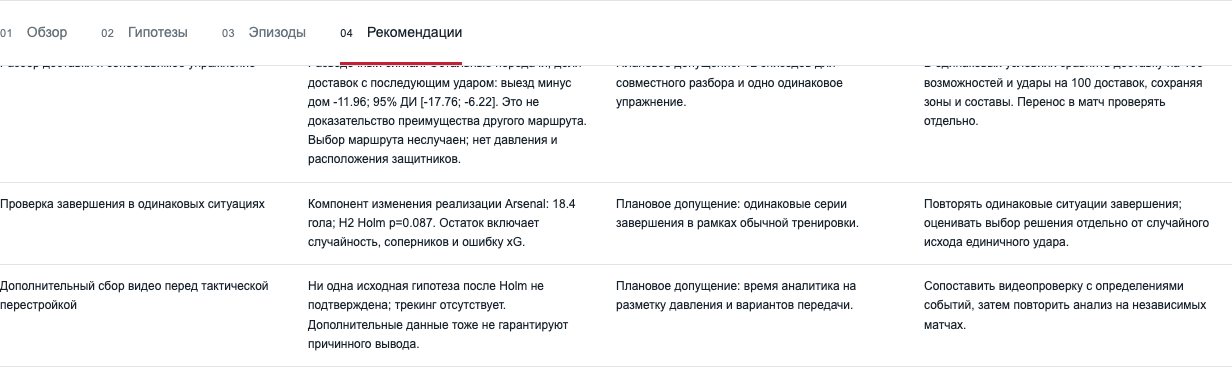
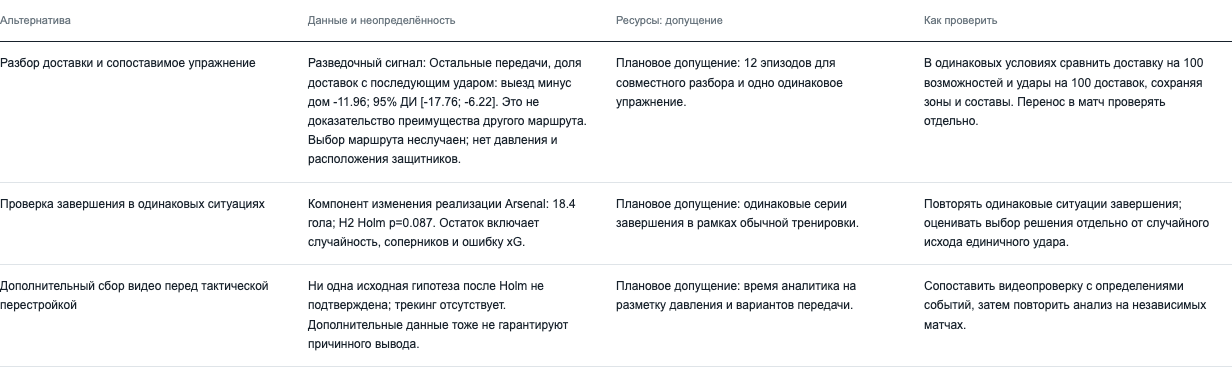
fix: render shot events without placeholder trajectories

diff --git a/app/app.js b/app/app.js
@@ -1,4 +1,4 @@
-import {filterEpisodes,riskSummary,number as fmt,clock} from './lab-utils.js';
+import {filterEpisodes,riskSummary,number as fmt,clock,actionGeometry} from './lab-utils.js';
 const $=id=>document.getElementById(id);
 let data,selectedEpisode=null,filteredEpisodes=[],listLimit=60,timer=null;
 const INK='#17212b',RED='#c52235',GRAY='#98a3ac';
@@ -146,7 +146,7 @@ function selectEpisode(e) {
   if(timer){clearInterval(timer);timer=null;$('play').textContent='Воспроизвести';}
   selectedEpisode=e;
   document.querySelectorAll('.episode-item').forEach(b=>b.classList.toggle('active',filteredEpisodes[Number(b.dataset.index)]===e));
-  if(!e){$('episode-title').textContent='Нет подходящих эпизодов';$('episode-meta').textContent='';$('episode-result').textContent='';$('pitch-container').innerHTML='<p class="empty">Выберите другие условия.</p>';$('action-details').textContent='';$('frame').max=0;$('frame-label').textContent='0 / 0';$('play').disabled=true;return;}
+  if(!e){$('episode-title').textContent='Нет подходящих эпизодов';$('episode-meta').textContent='';$('episode-result').textContent='';$('pitch-container').innerHTML='<p class="empty">Выберите другие условия.</p>';$('action-details').textContent='';$('shot-explanation').textContent='';$('frame').max=0;$('frame-label').textContent='0 / 0';$('play').disabled=true;return;}
   const m=matchFor(e.match_id);
   $('episode-title').textContent=m.label;
   $('episode-meta').textContent=clock(e.period,e.second)+' · match '+e.match_id+' · event '+e.event_id+' · разница счёта до события: '+(e.score_diff>0?'+':'')+e.score_diff;
@@ -160,16 +160,28 @@ function drawFrame() {
   if(!selectedEpisode?.actions.length)return;
   const i=Number($('frame').value),actions=selectedEpisode.actions;
   let s=pitchBase()+'<defs><marker id="arrow" markerWidth="7" markerHeight="7" refX="6" refY="3" orient="auto"><path d="M0,0 L0,6 L7,3 z" fill="context-stroke"/></marker></defs>';
+  s+='<rect class="goal-mouth" x="4" y="214.56" width="8" height="48.88" fill="none" stroke="'+GRAY+'"/><rect class="goal-mouth" x="712" y="214.56" width="8" height="48.88" fill="none" stroke="'+GRAY+'"/>';
   const x=v=>12+v*7,y=v=>12+v*4.54;
   actions.slice(0,i+1).forEach((a,j)=>{
-    const pos=a.positions,color=a.arsenal?RED:INK,opacity=j===i?1:.18;
-    if(pos.length>1)s+='<line x1="'+x(pos[0].x)+'" y1="'+y(pos[0].y)+'" x2="'+x(pos[1].x)+'" y2="'+y(pos[1].y)+'" stroke="'+color+'" stroke-width="'+(j===i?2.6:1.5)+'" opacity="'+opacity+'" marker-end="url(#arrow)"/>';
-    const p=pos[0];s+='<circle cx="'+x(p.x)+'" cy="'+y(p.y)+'" r="'+(j===i?7:4)+'" fill="'+color+'" opacity="'+opacity+'"/>';
+    const geometry=actionGeometry(a),color=a.arsenal?RED:INK,opacity=j===i?1:.18;
+    const p=geometry.origin;if(!p)return;
+    if(geometry.end){
+      const end=geometry.end;
+      s+='<line class="'+(geometry.isGoal?'goal-direction':'pass-direction')+'" data-event="'+a.id+'" x1="'+x(p.x)+'" y1="'+y(p.y)+'" x2="'+x(end.x)+'" y2="'+y(end.y)+'" stroke="'+color+'" stroke-width="'+(j===i?2.6:1.5)+'" opacity="'+opacity+'"'+(geometry.isGoal?' stroke-dasharray="5 4"':'')+' marker-end="url(#arrow)"/>';
+      if(geometry.isGoal&&j===i)s+='<circle class="goal-ball" cx="'+x(end.x)+'" cy="'+y(end.y)+'" r="4" fill="white" stroke="'+color+'" stroke-width="2"><animate attributeName="cx" from="'+x(p.x)+'" to="'+x(end.x)+'" dur="0.6s" fill="freeze"/><animate attributeName="cy" from="'+y(p.y)+'" to="'+y(end.y)+'" dur="0.6s" fill="freeze"/></circle>';
+    }
+    s+='<circle class="action-origin" cx="'+x(p.x)+'" cy="'+y(p.y)+'" r="'+(j===i?7:4)+'" fill="'+color+'" opacity="'+opacity+'"/>';
+    if(geometry.isShot)s+='<circle class="shot-origin" data-event="'+a.id+'" cx="'+x(p.x)+'" cy="'+y(p.y)+'" r="'+(j===i?12:7)+'" fill="none" stroke="'+color+'" stroke-width="2" opacity="'+opacity+'"/>';
     if(j===i)s+='<text x="'+(x(p.x)+(p.x>65?-10:10))+'" y="'+Math.max(25,y(p.y)-12)+'" text-anchor="'+(p.x>65?'end':'start')+'" fill="'+color+'" font-size="12" font-family="Arial">'+escape(a.player||translated[a.type]||a.type)+'</text>';
   });
+  const lastShot=actions.slice(0,i+1).findLast(a=>actionGeometry(a).isShot);
+  if(lastShot?.goal)s+='<text class="goal-caption" x="362" y="39" text-anchor="middle" fill="'+(lastShot.arsenal?RED:INK)+'" font-family="Arial" font-size="17" font-weight="bold">'+(lastShot.arsenal?'ГОЛ ARSENAL':'ГОЛ СОПЕРНИКА')+' · '+escape(lastShot.player||'')+'</text>';
+  else if(lastShot&&actionGeometry(actions[i]).isShot)s+='<text class="shot-caption" x="362" y="39" text-anchor="middle" fill="'+INK+'" font-family="Arial" font-size="15">УДАР БЕЗ ГОЛА</text>';
   $('pitch-container').innerHTML=svg(s,724,500,'Реальные события выбранного эпизода');
   const a=actions[i];$('frame-label').textContent=(i+1)+' / '+actions.length;
-  $('action-details').textContent=clock(selectedEpisode.period,a.second)+' · '+(a.arsenal?'Arsenal':'Соперник')+' · '+(a.player||'игрок не указан')+' · '+(translated[a.type]||a.type)+' · event '+a.id;
+  const geometry=actionGeometry(a);
+  $('action-details').textContent=clock(selectedEpisode.period,a.second)+' · '+(a.arsenal?'Arsenal':'Соперник')+' · '+(a.player||'игрок не указан')+' · '+(geometry.isGoal?'Удар — ГОЛ':geometry.isShot?'Удар без гола':translated[a.type]||a.type)+' · event '+a.id;
+  $('shot-explanation').textContent=lastShot?.goal?'Пунктир и движение мяча — условное направление к центру ворот. Это схема гола, не измеренная траектория и не точная точка попадания.':geometry.isShot?'Кольцом отмечена точка удара. Направление полёта не показано: вторая координата удара в исходнике служебная.':a.type==='Save attempt'?'Действие вратаря сохранено в последовательности. Служебные координаты этого события на поле не отображаются.':'Сплошные стрелки — зарегистрированные передачи. Дуэли и другие действия показаны точками, без выдуманной траектории мяча.';
 }
 function recommendations() {
   $('recommendation-list').innerHTML=data.recommendations.map((r,i)=>'<article class="recommendation"><span class="index">0'+(i+1)+'</span><div><span class="label">'+escape(r.support)+'</span><h3>'+escape(r.title)+'</h3><p class="evidence">'+escape(r.evidence)+'</p><p>'+escape(r.caution)+'</p></div><div><h4>Что проверить</h4><p>'+escape(r.action)+'</p><h4>Как оценить результат</h4><p>'+escape(r.test)+'</p></div></article>').join('');

diff --git a/app/lab-utils.js b/app/lab-utils.js
@@ -20,3 +20,16 @@ export function clock(period,second) {
   const offset=period==='2H'?45:0;
   return String(Math.floor(second/60)+offset).padStart(2,'0')+':'+String(Math.floor(second%60)).padStart(2,'0');
 }
+
+// Shot positions[1] is a Wyscout placeholder, not a ball destination.
+// A goal is shown towards the goal centre only as an explicitly labelled diagram.
+export function actionGeometry(action) {
+  const valid=p=>p&&Number.isFinite(p.x)&&Number.isFinite(p.y)&&p.x>=0&&p.x<=100&&p.y>=0&&p.y<=100;
+  const positions=action.positions??[];
+  const isShot=action.type==='Shot'||(action.type==='Free Kick'&&['Free kick shot','Penalty'].includes(action.subtype));
+  const isGoal=isShot&&action.goal===true;
+  const origin=action.type!=='Save attempt'&&valid(positions[0])?positions[0]:null;
+  const isPass=action.type==='Pass'||(action.type==='Free Kick'&&!isShot);
+  const end=isGoal?{x:action.arsenal?100:0,y:50}:isPass&&valid(positions[1])?positions[1]:null;
+  return {origin,end,isShot,isGoal,kind:isGoal?'goal':isPass&&end?'pass':'point'};
+}

diff --git a/app/index.html b/app/index.html
@@ -77,6 +77,7 @@
           <div id="pitch-container"></div>
           <div class="playback"><button id="play" class="primary">Воспроизвести</button><input id="frame" type="range" min="0" max="0" value="0" aria-label="Шаг эпизода"><span id="frame-label"></span></div>
           <div id="action-details" class="action-details" aria-live="polite"></div>
+          <p id="shot-explanation" class="method-note" role="status"></p>
           <p class="method-note">Это анимация зарегистрированных действий с мячом. Линии между событиями условны; позиции остальных игроков и непрерывные траектории отсутствуют. Arsenal показан красным.</p>
         </article>
       </div>

diff --git a/DEMO_RU.md b/DEMO_RU.md
@@ -1,0 +1,142 @@
+# Демо Arsenal Lab: что нажимать и говорить
+
+Полный маршрут для спокойного рассказа — примерно 4 минуты; это ориентир для репетиции, не измеренное время. Если вместо предусмотренных 3 минут использовать 4, общий план защиты составит 14:15. Для трёхминутного показа используйте сокращение в конце. Показываем все три типа эпизодов, а не все события сезона.
+
+## Перед выступлением
+
+В Terminal:
+
+```bash
+cd /Users/rahug/Desktop/AITU/ass5
+make demo
+```
+
+На другом компьютере перейдите в свою папку проекта. Браузер откроется на http://127.0.0.1:8765. Терминал оставьте открытым. Остановка — Ctrl+C. Если порт занят: `make demo PORT=8766`. Интернет и повторный запуск notebook не нужны. После обновления файлов перезагрузите вкладку через Cmd+Shift+R.
+
+На слайде 8 переключитесь в браузер через Cmd+Tab. Начните с «Обзор».
+
+## 1. Обзор — исходная проблема
+
+**Нажать:** «Обзор». Показать 47/16, график моментов, ниже — разложение голов и таблицу соперников.
+
+**Сказать:**
+
+> Arsenal набрал дома 47 очков, на выезде — 16. Здесь собраны результаты нашего исследования. Мы сравнили 38 матчей Arsenal: домашний и выездной против каждого из 19 соперников. xG — оценка вероятности гола из удара.
+
+Не читать всю таблицу. Разложение 41 + 5 − 1 = 45 относится к разрыву разницы забитых и пропущенных голов, не к очкам.
+
+## 2. Гипотезы — какие объяснения проверили
+
+**Нажать:** «Гипотезы». Показать три карточки.
+
+**Сказать:**
+
+> Проверили три объяснения: различалось ли качество моментов, реализация и частота ударов соперника после потерь. После поправки на три проверки убедительно подтвердить исходные гипотезы не удалось. Это не доказывает отсутствия различий.
+
+**Нажать:** ниже выбрать «Равный счёт и 11 × 11». В «Показатель» переключить «Суммы за выбранные минуты» и «На 90 минут состояния».
+
+> Мы учитываем, сколько минут команда играла в выбранных условиях. Поэтому можно сравнить не только суммы, но и интенсивность.
+
+**Прокрутить:** «Что происходит после доставки в штрафную».
+
+> Дополнительно обнаружили: на выезде после передач в штрафную без навеса реже следовал удар. Парное различие — около 12 процентных пунктов. Это разведочное наблюдение, которое требует дальнейшей проверки.
+
+«Разведочный» означает дополнительный поиск закономерности после основных проверок. Этот результат не заменяет исходные гипотезы и не доказывает причину.
+
+## 3. Эпизоды — проверить наблюдение на конкретных действиях
+
+**Нажать:** «Эпизоды». Перед каждым примером проверить настройки. «Все состояния» оставить во всех примерах.
+
+Назначение фильтров:
+
+- **Тип эпизода:** что изучаем — атаку перед ударом Arsenal, продолжение после его неудачной передачи или доставку в штрафную.
+- **Матч:** из какой игры взять пример. Счёт в заголовке — итог матча.
+- **Продолжение:** выбрать исход эпизода. Названия вариантов меняются с типом.
+- **Состояние:** ограничить выборку равным счётом или игрой 11×11. Для знакомства оставить все.
+- **Окно:** для неудачных передач — сколько секунд искать последующий удар. Для остальных типов фиксировано 15 секунд; неактивное поле нормально.
+- **Маршрут:** только для доставок — навес или остальные передачи.
+- **Воспроизвести:** пройти зарегистрированные действия. Ползунок позволяет остановиться на конкретном действии. Это не видео и не непрерывный трекинг.
+
+### А. Гол Arsenal — понятный первый пример
+
+| Настройка | Значение |
+|---|---|
+| Тип | Перед ударом Arsenal |
+| Матч | 2017-08-11 · Arsenal - Leicester City, 4 - 3 |
+| Продолжение | Завершение голом |
+| Состояние | Все состояния |
+| Эпизод слева | **46:55 · событие 177960130** |
+
+Нажать «Воспроизвести». Дождаться удара Welbeck. Подвигать ползунок.
+
+> Это гол Уэлбека. Мы показываем действия перед ударом, игрока и исходный ID события. Пунктир к воротам — условная схема гола. Точную траекторию мяча данные не содержат.
+
+46:55 здесь — добавленное время первого тайма. Первый гол Arsenal в этом матче — Lacazette, 01:34, событие 177959212; его можно использовать как альтернативу.
+
+### Б. Удар Arsenal без гола — дополнительный контрпример
+
+В том же матче изменить «Продолжение» на «Без гола». Выбрать любой эпизод и воспроизвести.
+
+> Мы учитываем и удары без гола. Кольцо показывает точку удара. Стрелку к выдуманной точке полёта не рисуем.
+
+Для строго трёхминутного показа этот пример пропустить.
+
+### В. Потеря Arsenal и гол соперника
+
+| Настройка | Значение |
+|---|---|
+| Тип | После неудачной передачи |
+| Матч | Arsenal - Leicester City, 4 - 3 |
+| Окно | 15 |
+| Продолжение | С ударом соперника |
+| Состояние | Все состояния |
+| Эпизод слева | **28:25 · событие 177959768** |
+
+Нажать «Воспроизвести». В последовательности неудачная передача Xhaka, действия Albrighton и гол Vardy. Сам удар зарегистрирован в 28:30.
+
+> Здесь после неудачной передачи Arsenal следует атака Leicester и гол Варди. Соперник атакует влево. Мы наблюдаем последовательность событий, но одним примером не доказываем, что потеря стала причиной гола.
+
+Это способ показать конкретный гол соперника, попавший в выборку после потерь. Отдельного режима просмотра всех голов соперника нет.
+
+Дополнительно можно выбрать «Без последующего удара»: так видны потери, после которых удар в выбранном окне не последовал. Для короткой защиты не показывать.
+
+### Г. Доставка в штрафную с ударом — связь с исследованием
+
+| Настройка | Значение |
+|---|---|
+| Тип | Доставка в штрафную |
+| Маршрут | Без навеса |
+| Матч | Arsenal - Liverpool, 3 - 3 |
+| Продолжение | С ударом Arsenal |
+| Состояние | Все состояния |
+| Эпизод слева | **57:40 · событие 216905500** |
+
+Нажать «Воспроизвести». Показаны доставка Özil, борьба, передача Lacazette и гол Özil в 57:42. Последующее действие вратаря — запись того же эпизода, не второй гол.
+
+> Это пример исследуемого механизма: доставка в штрафную и последующий удар. Такие продолжения мы считаем по всем подходящим попыткам, а не только по красивым голам.
+
+### Д. Доставка без удара — обязательный контрпример
+
+В том же матче и с тем же маршрутом выбрать «Продолжение → Без последующего удара». Выбрать **08:03 · событие 216904494**.
+
+> А здесь доставка не привела к удару до остановки или зарегистрированного контроля соперника. Подобные случаи также включены в расчёт. Поэтому отдельная успешная атака не подменяет статистику.
+
+У неудачной передачи записанная конечная точка не доказывает, куда именно игрок намеревался передать.
+
+## 4. Рекомендации — какой следующий шаг
+
+**Нажать:** «Рекомендации». Показать «Сравнение альтернатив».
+
+> Для каждого предложения указаны данные, неопределённость, ресурсы и способ проверки. Предлагаем разобрать приём и следующее решение после доставки без навеса, затем проверить упражнение в сопоставимых условиях. Дополнительные победы от такого изменения пока не измерены.
+
+Не читать всю матрицу. «Аудит агента» ниже — автоматическая проверка поиска шести фактов; это не исследование с реальными тренерами.
+
+**Закончить:**
+
+> В лаборатории можно пройти от общего результата к конкретному событию и обоснованному предложению для проверки.
+
+Вернуться в презентацию через Cmd+Tab.
+
+## Если на демо только 3 минуты
+
+Обзор — 20 секунд; гипотезы и дополнительный механизм — 35 секунд; эпизоды А, В, Г и Д — около 100 секунд с короткими фразами во время воспроизведения; рекомендации — 25 секунд. Не показывать дополнительные примеры Б и потерю без удара, не зачитывать все фильтры, не менять другие окна. При медленном темпе проверить длительность на репетиции и согласовать 4 минуты с командой.

diff --git a/ANALYSIS_AUDIT.md b/ANALYSIS_AUDIT.md
@@ -44,6 +44,14 @@
 
 ## Оценка глубины
 
+### Исправление проигрывателя после пользовательской проверки
+
+2026-11-03 пользователь обнаружил неверную стрелку гола Welbeck (event177960130). Вторая позиция удара ошибочно считалась конечной точкой полёта. В оригинальном England все8451 события Shot имеют вторую позицию(0,0) или(100,100). Это не измеренная траектория; в [socceraction](https://github.com/ML-KULeuven/socceraction/blob/master/socceraction/spadl/wyscout.py) координаты окончания ударов также восстанавливаются отдельно как оценки из тегов, а [Wyscout](https://dataglossary.wyscout.com/shot/) описывает результат и зону удара отдельными тегами.
+
+Исправлена только визуализация: передачи используют зарегистрированные координаты; удары без гола показывают точку удара; голы показывают явно условное направление к центру соответствующих ворот, метку гола и условное движение мяча. Дуэли не рисуют траекторию передачи. Координаты Save attempt не отображаются и его тег101 не создаёт второй гол. Исходные события и аналитический экспорт не менялись.
+
+Прежний browser smoke проверял воспроизведение, но не семантику конечной координаты удара. Новый регрессионный тест сначала воспроизвёл ошибку на голе Welbeck, затем прошёл после исправления. Дополнительно проверены гол Vardy в противоположные ворота, удар без гола, доставка с последующим вратарским событием и экран390px. Unit-набор расширен до10 тестов. Числовая проверка геометрии модели выше относится к расстоянию и углу **от точки удара**, а не к ранее ошибочной стрелке интерфейса.
+
 По моей оценке, это сильное студенческое исследование для сценария №4. Глубину обеспечивают проверка исходных ошибок, парные соперники, независимый по времени тест модели, экспозиция и её нестабильность, полный учёт разницы голов, конкретное определение доставки, все попытки и контрпримеры. Интерфейс позволяет проверить утверждение до исходного события. Сам метод регрессии обычный; оригинальность — в постановке и связке проверок, а не в заявлении нового ML-алгоритма.
 
 Серьёзных расхождений в перепроверенных вычислениях не обнаружено. Это основание доверять реализации выбранных определений. Это не доказывает, что определения полностью описывают футбольную ситуацию.

diff --git a/WORKLOG.md b/WORKLOG.md
@@ -43,3 +43,10 @@
 - Добавлены `make demo` и `make run`; сервер открывает браузер после успешного занятия порта. Используется готовый Python окружения проекта, иначе системный Python3.
 - Проверены запуск из другой папки, HTTP для HTML/JS/CSS/JSON, 38 матчей и 47/16 очков, диагностика занятого и неверного порта, синтаксис zsh. Тестовый сервер остановлен.
 - README и инструкция защиты обновлены. Двойной клик Finder не воспроизведён; рекомендуемый путь — Terminal и `make demo`.
+
+## 2026-11-03 — исправление анимации и сценарий демо
+
+- Пользователь нашёл неверную стрелку гола Welbeck(event177960130). Browser regression сначала упал на стрелке к(0,0), затем прошёл после исправления.
+- Во всех8451 исходных Shot вторая позиция служебная(0,0)/(100,100). Теперь она не используется для траектории: удары без гола обозначены точкой, голы — подписанной условной схемой к соответствующим воротам. Дуэли не рисуют передачи; Save attempt не создаёт ложную точку или второй гол.
+- Пройдены10 unit-тестов, браузерные проверки голов Arsenal/соперника, неголевого удара, доставки с вратарём и390px. Ошибок JS и внешних запросов0. Снимок app-goal.png просмотрен. Основные notebook/JSON побайтово не изменились.
+- DEMO_RU.md содержит все вкладки, три типа эпизодов, проверенные исходные ID, готовые фразы и сокращение до3минут. Полный спокойный маршрут ориентировочно4минуты, длительность требует репетиции.

diff --git a/DEFENSE_RU.md b/DEFENSE_RU.md
@@ -61,6 +61,8 @@ H1 — непенальтийный xG-баланс, H2 — собственны
 
 ### 8. Демонстрация лаборатории: 3 минуты — 180 секунд
 
+Точные настройки, исходные ID, готовые фразы и пример гола соперника после потери — в `DEMO_RU.md`. Там же есть расширенный маршрут для спокойной репетиции. При показе гола пояснять: пунктир и движение мяча к воротам — условная схема, не восстановленная траектория.
+
 0:00–0:35 обзор, четыре компонента и таблица пар. 0:35–1:10 исходные гипотезы, затем равный счёт и переключение сумм/90. 1:10–2:20 доставки без навеса, один эпизод с ударом и один без, исходные match/event IDs, воспроизведение и ручной шаг. 2:20–3:00 матрица альтернатив и границы аудита агента. Показать, что события реальны, а линии между ними условны; позиции остальных игроков отсутствуют. Не утверждать, что интерфейс уже помог реальным тренерам или сэкономил людям время. Работает локально без внешних запросов.
 
 ### 9. Что проверить тренеру и почему — 70 секунд

diff --git a/README.md b/README.md
@@ -43,6 +43,8 @@ make demo
 
 Четыре раздела: обзор; гипотезы и контексты; эпизоды с фильтрами и воспроизведением; рекомендации. Эпизоды включают голы, промахи, опасные продолжения и отрицательные примеры. Анимация соединяет зарегистрированные события: она не восстанавливает траектории всех игроков.
 
+Пошаговый сценарий с точными настройками и ID: [DEMO_RU.md](DEMO_RU.md). Сплошные стрелки показывают передачи; кольцо — точку удара. Для гола пунктир и движение мяча к центру нужных ворот обозначают **условную схему**, не измеренную траекторию или точку попадания. Служебные конечные координаты ударов не рисуются; события вратаря остаются в списке действий без недостоверной точки на поле.
+
 ## Файлы сдачи
 
 | Файл | Назначение |
